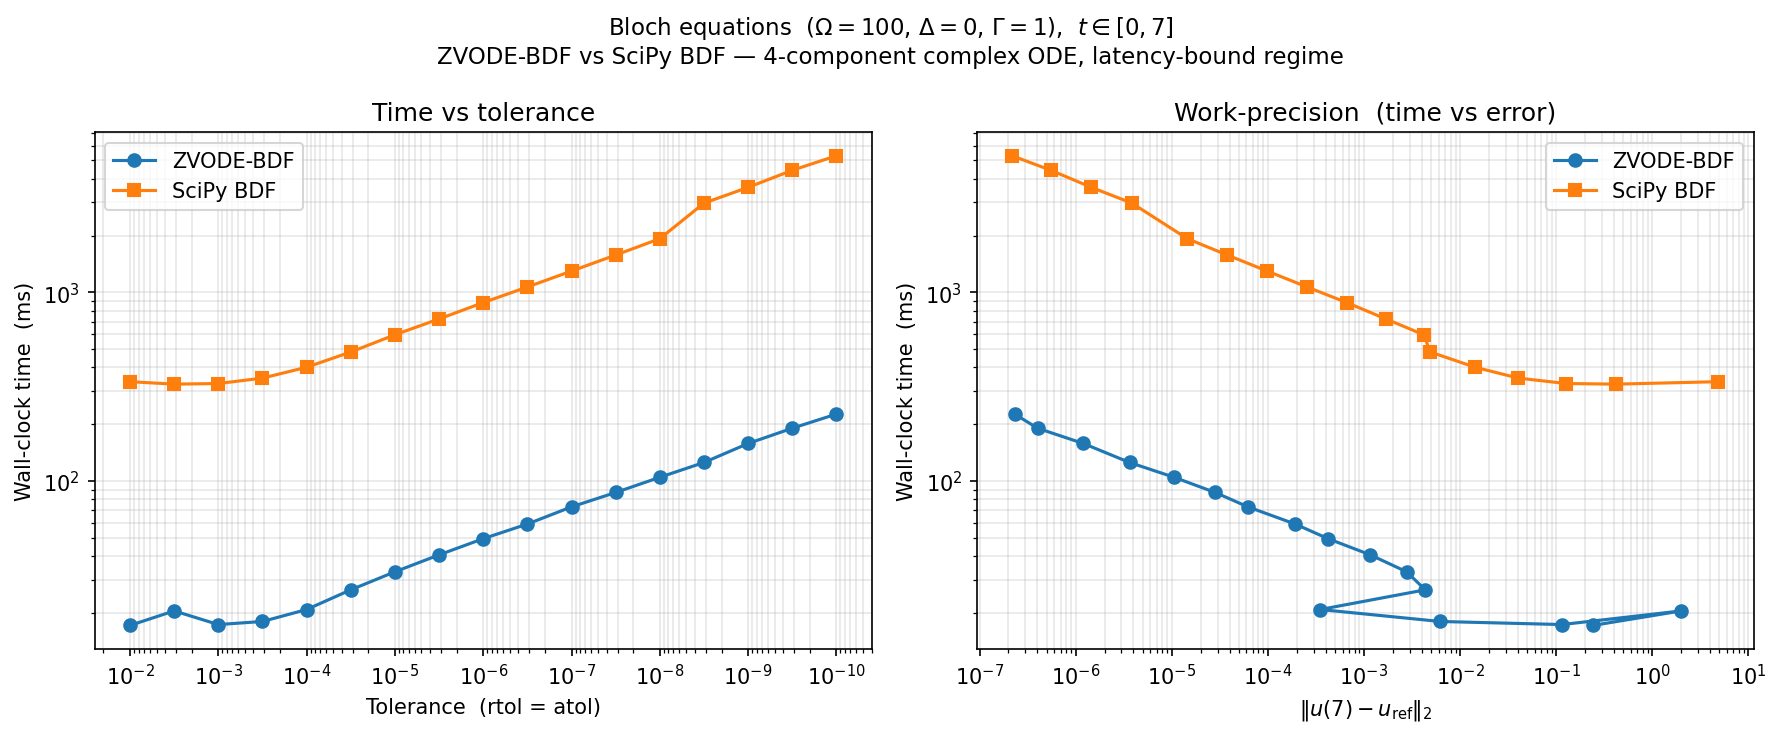
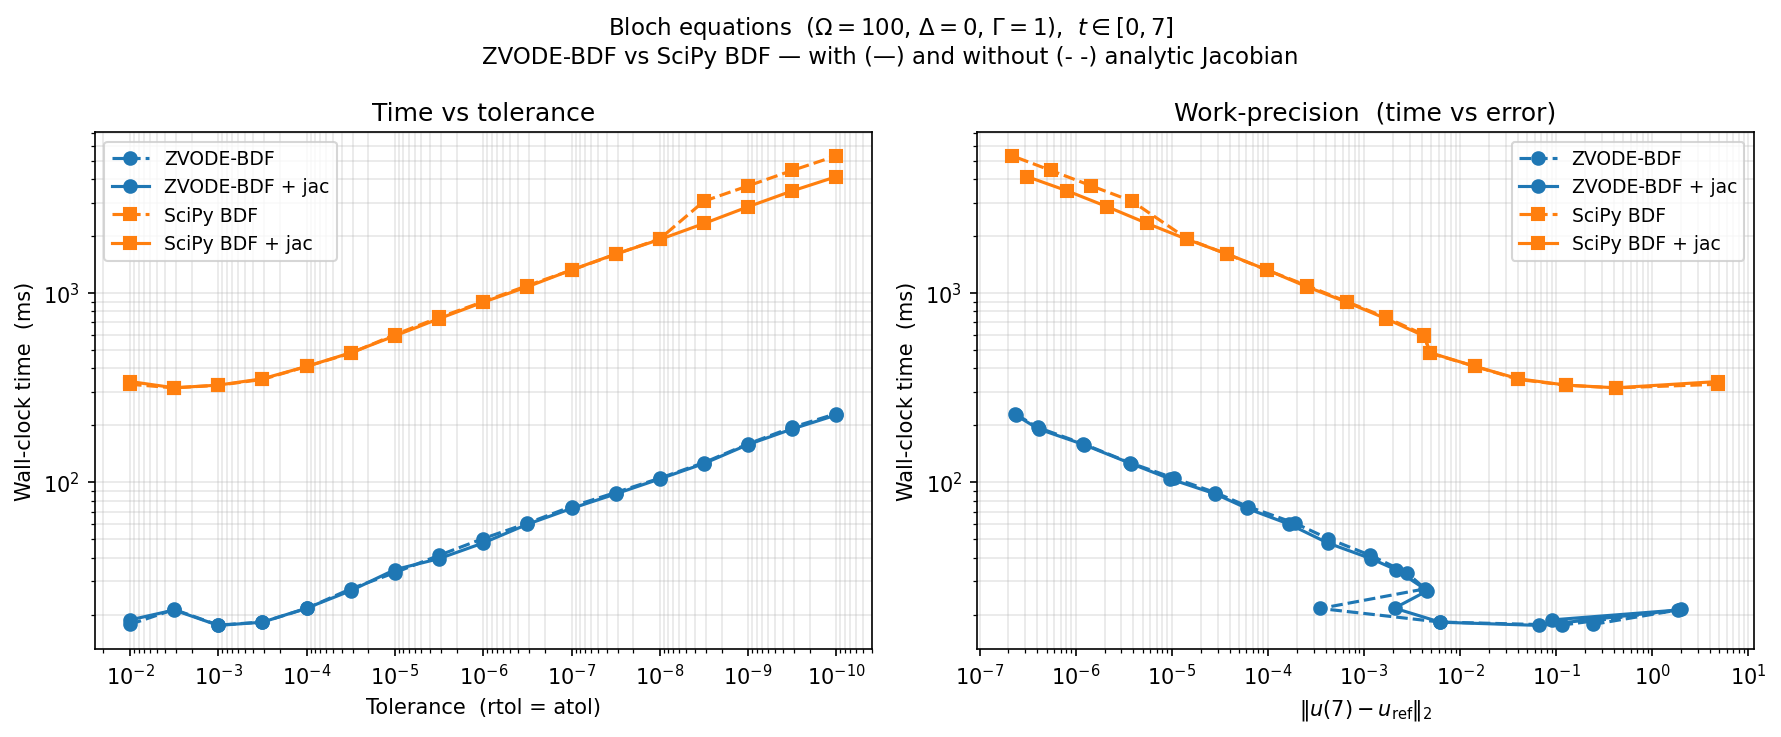
Add analytic Jacobian to Bloch work-precision comparison
Extends the benchmark to four configurations (ZVODE/SciPy BDF × with/without
user-supplied Jacobian) and updates the plot accordingly.

https://claude.ai/code/session_01QJQSoy8qT5bLErKiNMZmpT

diff --git a/docs/bloch_work_precision.py b/docs/bloch_work_precision.py
@@ -1,5 +1,6 @@
 """
-Work-precision diagram for the Bloch equations: ZVODE-BDF vs SciPy BDF.
+Work-precision diagram for the Bloch equations: ZVODE-BDF vs SciPy BDF,
+with and without a user-supplied analytic Jacobian.
 
 The Bloch equations model a two-level open quantum system (Rabi oscillations
 with spontaneous emission).  With rapid Rabi oscillations (Ω=100) and slow
@@ -12,6 +13,14 @@ loop in Fortran, calling back to Python only for RHS evaluations.  SciPy BDF
 implements those same operations in Python.  The difference shows up most
 clearly at loose tolerances, where the step count is small and per-step
 overhead is the dominant cost.
+
+Jacobian notes
+--------------
+f₀, f₁, f₂ are analytic in u.  f₃ = conj(f₂) is anti-analytic, so the
+Jacobian row J[3,:] is obtained as conj(J[2,:]) — the same result that
+ZVODE's finite-difference scheme (real perturbations) produces naturally.
+The column J[:,3] is zero for f₀, f₁, f₂; J[3,3] = 0 because f₃ does not
+depend on u₃.
 
 Reference:
   https://discourse.julialang.org/t/how-can-i-solve-complex-valued-odes/110581
@@ -47,90 +56,115 @@ def bloch_rhs(t, u):
     return du
 
 
+def bloch_jac(t, u):
+    J = np.zeros((4, 4), dtype=np.complex128)
+    # df0/duj
+    J[0, 1] =  Gamma
+    J[0, 2] =  1j * Omega
+    J[0, 3] = -1j * Omega
+    # df1/duj
+    J[1, 1] = -Gamma
+    J[1, 2] = -1j * Omega
+    J[1, 3] =  1j * Omega
+    # df2/duj  (analytic)
+    J[2, 0] =  1j * Omega
+    J[2, 1] = -1j * Omega
+    J[2, 2] = -(gamma + 1j * Delta)
+    # df3/duj = conj(df2/duj)  (real-perturbation finite-diff sense)
+    J[3, 0] = -1j * Omega
+    J[3, 1] =  1j * Omega
+    J[3, 2] = -(gamma - 1j * Delta)
+    # J[3, 3] = 0: f3 does not depend on u3
+    return J
+
+
 # ---------------------------------------------------------------------------
-# Reference solution (tight tolerance)
+# Reference solution (tight tolerance, analytic Jacobian)
 # ---------------------------------------------------------------------------
 ref = solve_ivp(
     bloch_rhs, t_span, u0.copy(),
-    method=ZVODE_BDF, rtol=1e-13, atol=1e-13, dense_output=False,
+    method=ZVODE_BDF, jac=bloch_jac, rtol=1e-13, atol=1e-13, dense_output=False,
 )
 assert ref.success, f"Reference solve failed: {ref.message}"
 u_ref = ref.y[:, -1]
 
 # ---------------------------------------------------------------------------
-# Tolerance sweep
+# Solver configurations: (label, method, jac, color, marker, linestyle)
 # ---------------------------------------------------------------------------
-tols = np.logspace(-2, -10, 17)
-N_REPEAT = 15   # timing repeats; minimum is reported
-
-solvers = [
-    ("ZVODE-BDF", ZVODE_BDF,  "tab:blue",   "o"),
-    ("SciPy BDF", "BDF",      "tab:orange", "s"),
+CONFIGS = [
+    ("ZVODE-BDF",           ZVODE_BDF, None,       "tab:blue",   "o", "--"),
+    ("ZVODE-BDF + jac",     ZVODE_BDF, bloch_jac,  "tab:blue",   "o", "-"),
+    ("SciPy BDF",           "BDF",     None,       "tab:orange", "s", "--"),
+    ("SciPy BDF + jac",     "BDF",     bloch_jac,  "tab:orange", "s", "-"),
 ]
 
+# ---------------------------------------------------------------------------
+# Tolerance sweep
+# ---------------------------------------------------------------------------
+tols    = np.logspace(-2, -10, 17)
+N_REPEAT = 10   # timing repeats; minimum is reported
+
 results = {}
-for label, method, _color, _marker in solvers:
+for label, method, jac, _c, _m, _ls in CONFIGS:
     wall_ms = np.empty(len(tols))
     errors  = np.empty(len(tols))
     for i, tol in enumerate(tols):
-        kw = dict(rtol=tol, atol=tol, dense_output=False)
-        # warmup run (avoids import / JIT artefacts)
-        sol = solve_ivp(bloch_rhs, t_span, u0.copy(), method=method, **kw)
-        # timed runs
-        ts = timeit.repeat(
+        kw = dict(rtol=tol, atol=tol, jac=jac, dense_output=False)
+        sol = solve_ivp(bloch_rhs, t_span, u0.copy(), method=method, **kw)  # warmup
+        ts  = timeit.repeat(
             lambda: solve_ivp(bloch_rhs, t_span, u0.copy(), method=method, **kw),
             number=1, repeat=N_REPEAT,
         )
         wall_ms[i] = min(ts) * 1e3
         errors[i]  = np.linalg.norm(sol.y[:, -1] - u_ref)
-        print(f"  {label:10s}  tol={tol:.0e}  t={wall_ms[i]:.2f} ms  err={errors[i]:.2e}")
+        print(f"  {label:20s}  tol={tol:.0e}  t={wall_ms[i]:8.2f} ms  err={errors[i]:.2e}")
     results[label] = (wall_ms, errors)
 
 # ---------------------------------------------------------------------------
 # Speedup summary
 # ---------------------------------------------------------------------------
-z_times = results["ZVODE-BDF"][0]
-b_times = results["SciPy BDF"][0]
-speedup  = b_times / z_times
-print(f"\nSpeedup (SciPy BDF / ZVODE-BDF): min={speedup.min():.1f}×  "
-      f"max={speedup.max():.1f}×  median={np.median(speedup):.1f}×")
+print()
+for label_jac, label_nojac in [
+    ("ZVODE-BDF + jac", "ZVODE-BDF"),
+    ("SciPy BDF + jac", "SciPy BDF"),
+    ("SciPy BDF",       "ZVODE-BDF"),
+    ("SciPy BDF + jac", "ZVODE-BDF + jac"),
+]:
+    ratio = results[label_nojac][0] / results[label_jac][0]
+    print(f"  {label_nojac:20s} / {label_jac:20s}: "
+          f"median={np.median(ratio):.2f}×  range=[{ratio.min():.2f}, {ratio.max():.2f}]×")
 
 # ---------------------------------------------------------------------------
-# Plotting
+# Figure 1: time vs tolerance
 # ---------------------------------------------------------------------------
-fig, axes = plt.subplots(1, 2, figsize=(12, 5))
+fig1, axes = plt.subplots(1, 2, figsize=(12, 5))
 
-for label, method, color, marker in solvers:
+for label, method, jac, color, marker, ls in CONFIGS:
     wall_ms, errors = results[label]
-    fmt = f"{marker}-"
-    axes[0].loglog(tols,   wall_ms, fmt, label=label, color=color, lw=1.5)
-    axes[1].loglog(errors, wall_ms, fmt, label=label, color=color, lw=1.5)
+    axes[0].loglog(tols,   wall_ms, ls, marker=marker, label=label, color=color, lw=1.5)
+    axes[1].loglog(errors, wall_ms, ls, marker=marker, label=label, color=color, lw=1.5)
 
-# --- Left panel: time vs tolerance ---
 ax = axes[0]
 ax.invert_xaxis()
 ax.set_xlabel("Tolerance  (rtol = atol)")
 ax.set_ylabel("Wall-clock time  (ms)")
 ax.set_title("Time vs tolerance")
-ax.legend()
+ax.legend(fontsize=9)
 ax.grid(True, which="both", alpha=0.3)
 
-# --- Right panel: classic work-precision ---
 ax = axes[1]
 ax.set_xlabel(r"$\|u(7) - u_\mathrm{ref}\|_2$")
 ax.set_ylabel("Wall-clock time  (ms)")
 ax.set_title("Work-precision  (time vs error)")
-ax.legend()
+ax.legend(fontsize=9)
 ax.grid(True, which="both", alpha=0.3)
 
-fig.suptitle(
+fig1.suptitle(
     r"Bloch equations  ($\Omega=100$, $\Delta=0$, $\Gamma=1$),  $t \in [0, 7]$"
-    "\nZVODE-BDF vs SciPy BDF — 4-component complex ODE, latency-bound regime",
+    "\nZVODE-BDF vs SciPy BDF — with (—) and without (- -) analytic Jacobian",
     fontsize=11,
 )
 plt.tight_layout()
-
-out_path = "docs/bloch_work_precision.png"
-plt.savefig(out_path, dpi=150, bbox_inches="tight")
-print(f"\nSaved {out_path}")
+fig1.savefig("docs/bloch_work_precision.png", dpi=150, bbox_inches="tight")
+print("\nSaved docs/bloch_work_precision.png")
 plt.show()
